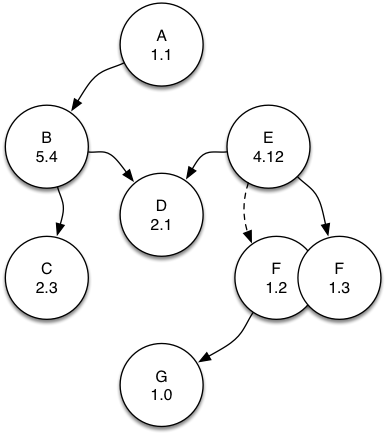
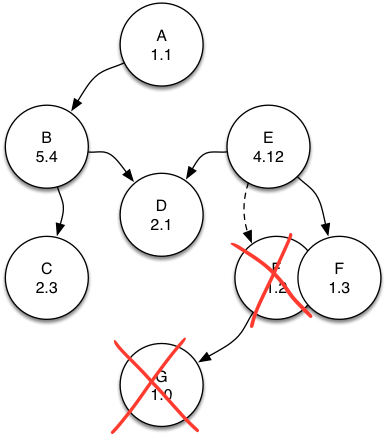
Add information about cleanup strategies

diff --git a/docs/src/hugo/content/index.md b/docs/src/hugo/content/index.md
@@ -254,6 +254,51 @@ At first glance this appears overwhelming, as there are many states. Some of the
   </tbody>
 </table>
 
+<h3 id="user-guide-lifecycle-cleanup" class="linkable">Cleanup</h3>
+
+A key part of application lifecycle is the ability to cleanup application stacks that are no longer needed. Users can specify an `expiration_policy` for any Nelson `unit`, and whilst these policies provide a varity of semantics (detailed below), there's a common decision tree executed to figure out which policy to apply and when. Figure 2.1 details this algorithm:
+
+<div class="clearing">
+  <img src="images/cleanup.png" width="55%" />
+  <small><em>Figure 2.1: cleanup decision tree</em></small>
+</div>
+
+In practice the "Evaluate Policy" is one of the following policies - which can be selected by the user. The first - and probally most common - is `retain-active`. This is the default for any unit that exposes one or more network ports. 
+
+Nelson has an understanding of the entire systems logical dependencies, and as such is able to make interesting assertions about what is - and is not - still required to be running. In the event that a new service (`F 1.3` in the diagram) is deployed which no longer requires its previous dependency `G 1.0`, both `F 1.1` and `G 1.0` are declared unnessicary garbage, and scheduled for removal.
+
+<div class="clearing">
+  <img src="images/dependencies-upgrade.png" width="40%" />
+  <small><em>Figure 2.2: retain active</em></small>
+</div>
+
+Where `retain-active` shines is that its exceedingly automatic: all the while some other system needs your services, Nelson will keep it running and automatically manage the traffic shifting to new versions that might come along. 
+
+A somewhat similar but more aggresive strategy is `retain-latest`. Whilst seemingly similar to `retain-active`, `retain-latest` will *always* tear down everything except the latest revision of an application. Typically this tends to be useful for jobs (streaming or batch) but is exceedingly dangerous for services that evolve over time, as `retain-latest` forces all your users up to the very latest revision, when they could well not be ready for a breaking API change (e.g. 1.0 vs 2.0).
+
+<div class="clearing">
+  <img src="images/cleanup-policies-retain-latest.png" width="60%" />
+  <small><em>Figure 2.3: retain two major versions</em></small>
+</div>
+
+A more moderate policy for jobs would be `retain-latest-two-major` or `retain-latest-two-feature`. These policies allow you to keep existing versions of your code operational, whilst adding new versions.
+
+<div class="clearing">
+  <img src="images/cleanup-policies-two-feature.png" width="60%" />
+  <small><em>Figure 2.4: retain latest two feature versions</em></small>
+</div>
+
+These policies are typically used for jobs where you want to actively compare and contrast two different types of output (the one you're currently using vs the next - a typical function in analysing ML model evolution).
+
+<div class="clearing">
+  <img src="images/cleanup-policies-two-major.png" width="60%" />
+  <small><em>Figure 2.5: retain latest two major versions</em></small>
+</div>
+
+Cleanup policies in Nelson can be explored with `nelson system cleanup-policies` from the CLI. If you believe there are additional use cases not covered by the default policies, please [enter the community](#community) and let us know what you think is missing.
+
+Any time Nelson executes or actions a cleanup policy - or inaction causes a state transistion - it will be recorded in the [auditing system](#install-auditing), so you can be aware of exactly what Nelson did on your behalf.
+
 <h2 id="user-guide-manifest" data-subheading-of="user-guide">Manifest</h2>
 
 One of the core tenets of the Nelson workflow is that all changes are checked into source code - nothing should be
@@ -345,14 +390,17 @@ With your repository in good shape, you're ready to enable Nelson to deploy your
   <small><em>Figure 2.1: approve github access page</em></small>
 </div>
 
-Once authorized, you will be redirected to the Nelson home page, where you can enable your repositories for deployment. Nelson might take a moment to sync up your repositories with GitHub on your first login, so give it a moment and then once the list appears, you should see something like this:
+Once authorized, you will be redirected to the Nelson home page which provides instructions on how to get started with the Nelson CLI. You can enable a repository for deployment by using the `nelson repos enable` command:
 
-<div class="clearing">
-  <img src="images/repo-list.png" width="100%" />
-  <small><em>Figure 2.2: list of repositories</em></small>
-</div>
+```
+# list the repositories for a given user or organization
+nelson repos list -o githubuser
 
-Use the search bar to look for your repository, and just slide the button on the left hand side to the "on" position. If for some reason you cannot enable your repository, please use the command line client or sbt-plugin to validate your Nelson manifest file.
+# enable one of those repositories for deployment
+nelson repos enable -o githubuser -r githubrepo
+```
+
+If for some reason you cannot enable your repository, the CLI should inform you why that is. In order to enable deployment for a given repository, you need to ensure that you have a valid `.nelson.yml` manifest file checked in, which passes `nelson lint manifest`. Invalid manifest files cannot be read by Nelson, and therefore cannot be deployed.
 
 <h2 id="user-guide-routing" data-subheading-of="user-guide">Routing</h2>
 
